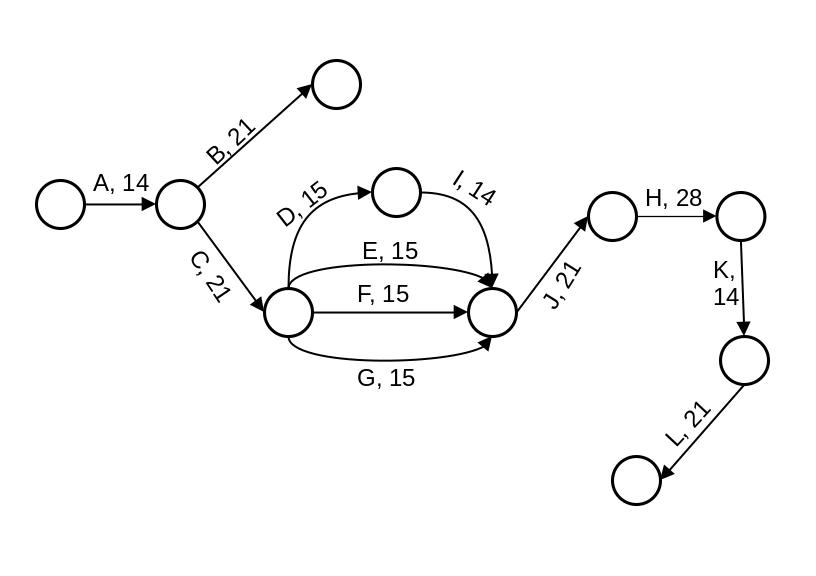
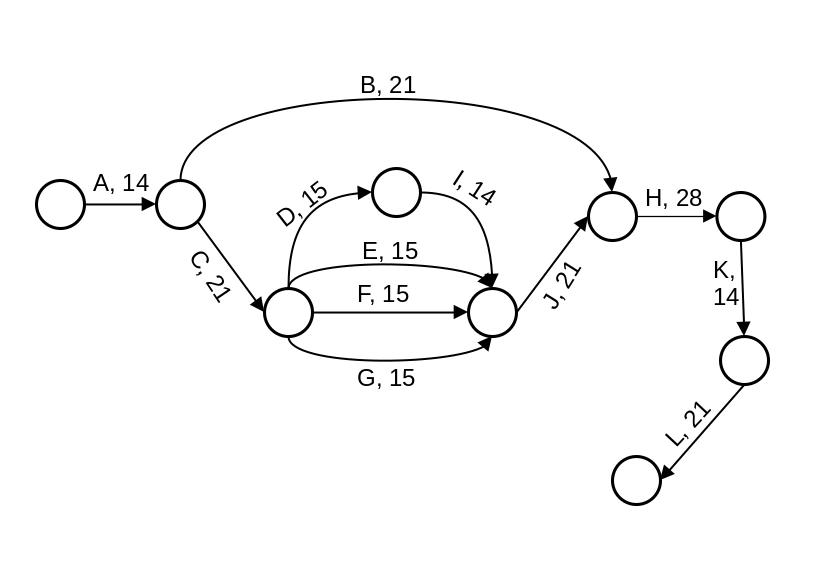
CPM and PERT done

diff --git a/Chapter5/chapter5.tex b/Chapter5/chapter5.tex
@@ -45,7 +45,7 @@ Among different scheduling techniques, \textbf{Network Diagrams} uses to graphic
 As the proposed new system for the AKASH DTH is decomposed in a well structured WBS with each tasks number, description, duration and dependencies. This document works as the map for the project workflows and goals and further used in the CPM, PERT and Gantt Chart techniques. \newline
 Time duration of each task is estimated using the top-down approach. The historic data gathered from their previous system's management was a key resource for the estimation and also expert judgment was asked from the previous team before planning the WBS. The dependencies were listed with additional care as the breakdown of the complex project scheduling highly affects from the internal dependencies among the component tasks. WBS was reviewed and the estimations were adjusted by Akash DTH team members.
 
-\begin{table}[h!]
+\begin{table}[H]
 \begin{center}
 	\begin{tabular}{| p{1cm}|p{7cm}|p{2cm}|p{3cm} |}
 		\hline
@@ -65,7 +65,7 @@ Time duration of each task is estimated using the top-down approach. The histori
 		\hline
 		G & Coding new custom package creation and alteration scheme & 15 days & C \\
 		\hline
-		H & Integrating UI with back-end API endpoints & 28 days & J \\
+		H & Integrating UI with back-end API endpoints & 28 days & B,  J \\
 		\hline
 		I & Migrating new database models to production database system & 14 days & D \\
 		\hline
@@ -104,4 +104,144 @@ On activities on node or AON network, nodes are either presented with a circle o
 	\label{fig:aon}
 \end{figure} 
 
+\section{Critical Path}
+Critical path in a project is sequence of the tasks that directly effects in the project completion deadlines. That means any delay in a task of the critical path will eventually create a delay in the final project completion. So critical path detects the minimum time needed to complete the project. Each project must have at least one critical path but more than one critical path is also common in project management. Accelerate the tasks on the critical path does not guarantee to shorten the project duration as the critical path can be shifted to a new path. Tasks that are not part of the critical path have a little impact on the project completion time. Some key concepts associated with critical path are listed below:
+ 
+ \paragraph{Early Start Time(ES)} 
+ This is earliest possible time a start can be started. A task early start time will always after the preceding task's early finish time. When a task have multiple preceding tasks, the maximum of their early finish time is used as the task's early start time.
+ \paragraph{Early Finish Time(ET)}
+ This is earliest possible time a task can be finished. Early finish time is simply the early start time plus the estimated duration of the task.
+ \paragraph{Late Start Time(LT)}
+ This is last minute a task can be started without affecting the project schedule. Late start time is simply the late finish time minus the duration of the task.
+ \paragraph{Late Finish Time(LF)}
+ This is the last minute a task can be completed within the project schedule. A task's late finish is the late start time of succeeding task's late start time, if the task has multiple successor then minimum of their late start is used as the late finish of the current task.  
+ \paragraph{Slack}
+ This defines how long a task can be delayed without affecting the project schedule and finish deadline. All tasks in the critical path will have a zero slack and other tasks that are not in the critical path will have a positive slack.
+ 
+ All these information are vital in critical path determination and project scheduling. So in the network diagram we used a rectangular node representation including the tasks number, duration, early start, early finish, late start, late finish and slack of the task as the following structure.
+ 
+ \begin{center}
+\begin{tabular}{|c|c|c|}
+	\hline
+	ES & Duration & EF \\
+	\hline
+	\multicolumn{3}{|c|}{Project ID} \\
+	\hline
+	LS & Slack & LF \\
+	\hline
+\end{tabular}
+\end{center}
+
+\subsection{Critical Path Method(CPM)}
+Critical path method is the algorithm to detect the critical path in the project schedule. It uses the slack of the tasks to detect the critical path. CPM is a two phase algorithm, a forward pass and followed by a backward pass.
+
+\subsubsection{Forward Pass} 
+In the forward pass, we calculate the early start(ES) and early finish(EF) of each task. In forward pass, we started the calculation from the left most task or the starting task(the task has no dependency) and proceed to the right until the final task reached. The first step in the forward pass is to create the network diagram using the WBS listed in table \ref{chart:WBS}. ES of an activity is equal to the EF of it's predecessor or the maximum of the EF(s) if it has multiple predecessors. ES of the first or leftmost task is always zero. The formula used to calculate EF is, $EF = ES + duration.$
+
+\subsubsection{Backward Pass}
+In backward pass, we calculate the late start(LS) and late finish(LF)  of each task. We started from the last or final task of the schedule and moved to preceding task, in a backward direction. The LF is determined first, then LS is calculated from LF and duration. The LF of a task is equal to the LS of the succeeding task or the minimum of the LS if multiple succeeding  tasks are there in the project schedule. The LF of the final task is equal to the EF of that task previously determined in the forward pass phase. The formula used to calculate LS is, $LS = LF - duration.$
+
+\subsubsection{Slack and Critical Path Identification}
+After the backward pass, all the information ES, EF, LS, LF of each task has been determined. The next step is the slack calculation. Slack identifies the tasks belong to the critical path. The formula used tor slack calculation is,$ slack =  LS - ES = LF - EF $. When slack is calculated, critical path is identified with tasks slack equals to zero. 
+
+Network diagram for WBS of our proposed system modifications listed in Table \ref{chart:WBS} including each tasks ES, EF, LS, LF and slack. From the following network diagram, we can identify the critical path in this project schedule as: \newline
+\[ A \to C \to D \to I \to J \to H \to K \to L \]
+
+The critical path in the network diagram is shown in highlighted  color on the below diagram.
+
+\subsubsection{Summury Of CPM}  
+
+
+\subsection{PERT}
+Program evaluation and review technique or PERT is a network diagram to represent the project's timeline. PERT method uses three estimations to calculate the expected time of each task. PERT is more effective when the duration of activities are uncertain. A brief description of each of three estimations used in PERT is given below:
+\begin{itemize}
+	\item \textbf{Optimistic Time, $a$} The minimum amount of time at least required to complete a task. This represent the best case scenario time.
+	\item \textbf{Pessimistic Time, $b$} The maximum of time time a task can be taken to complete. The represent the worst case scenario time.
+	\item \textbf{Most Likely Time, $m$} The best estimate of how long a task can take to complete assuming there is no delay or scarcity of resources.
+\end{itemize} 
+
+After finalize these three estimations, the expected time $te_{i}$ is calculated using the following formula of weighted average: \newline
+\begin{equation}
+te_{i} = \frac{a_i + 4m_i + b_i}{6} 
+\end{equation}
+
+Then the standard deviation $SD_{i}$ of each task is calculated. Standard deviation or SD signifies the variance of expected time of the tasks, smaller standard deviation means the value to be more close to the mean and the estimation is more confident. The formula used to calculate standard deviation is \newline
+
+\begin{equation}
+SD_{i} = \frac{b_{i} - a_{i}}{6} 
+\end{equation}
+
+In PERT method, expected time and standard deviation for each task is calculated individually and then the critical path is identified and finally the standard deviation for the whole project is calculated using every task present in the critical path. The formula used to calculate the standard deviation of the critical path is \newline
+
+\begin{equation}
+SD_{cp} = \sqrt{s_{1}^2 + s_{2}^2 + s_{3}^2 + \dots + s_n^2} 
+\end{equation}
+
+\subsubsection{PERT Activity List}
+PERT activity list is tabular method that shows the activities their three estimations, expected time and standard deviation in a table format. We used the activities or tasks previously decomposed in WBS(Table \ref{chart:WBS}) and make the optimistic, pessimistic and most likely estimations of each task and then calculated their expected time and standard deviation. Estimations were make using top-down method and using historic data and expert evaluation. The PERT list is presented in the table \ref{chart:PERT}. 
+
+\begin{table}[H]
+	\begin{center}
+		\begin{tabular}{| p{1cm} | p{2cm}| p{2cm} | p{2cm} | p{2cm} |p{2cm} | p{3cm} |}
+			\hline
+			Task ID  & Optimistic Time, $a_i$ &   Most Likely Time, $m_i$ & Pessimistic Time, $b_i$ & Expected Time, $te_i$ & Standard Deviation, $SD_i$ & Dependencies \\
+			\hline
+			A  & 12 & 14 & 16 & 14 & 0.67 & None \\
+			\hline
+			B  & 19 & 21 & 23 & 21  & 0.67 & A \\
+			\hline
+			C  & 18 & 21 & 24 & 21 & 1.0 & A \\
+			\hline
+			D  & 12 & 15  & 17 & 15 & 0.83 & C \\
+			\hline
+			E & 12 & 15 & 18 & 15 & 1.0 & C \\
+			\hline
+			F  & 13 & 15 & 18 & 15 & 0.83 & C \\
+			\hline
+			G  & 14 & 15 & 20 & 16 & 1.0  & C \\
+			\hline
+			H &  24 & 28 & 31 & 28 & 1.17 & B,  J \\
+			\hline
+			I  & 13 & 14 & 15 & 14 & 0.33 &  D \\
+			\hline
+			J  & 18 & 21 & 27 & 22 & 1.5  & I, E, F, G \\
+			\hline
+			K  & 12  & 14 & 15 & 14 & 0.5  & H \\
+			\hline
+			L  & 18 & 21 & 23 & 21 & 0.83 & K \\
+			\hline    
+		\end{tabular}
+	\end{center}
+	\caption{PERT activity list for proposed system of Akash DTH }
+	\label{chart:PERT}
+\end{table}
+
+From the PERT activities list, tasks have standard deviation within the range 0 to +1.5 which signifies that the expected time is well estimated. Majority of the tasks standard deviation are in range 0 to +1.0, only one task has standard deviation over 1.0, which evens provide proof of the lower variance of our estimations. 
+
+\subsubsection{PERT Chart}
+PERT chart network diagram with AOA or Activities On Arrow representation. In PERT chart the nodes represent the project milestones and arrow represents the activity associated with their expected duration. PERT uses the critical path we previously identified with CPM method $ A \to C \to D \to I \to J \to H \to K \to L $ in the network diagram. PERT chart for ours proposed system for AKASH DTH with the critical path highlighted is shown in figure \ref{fig:pert}.
+
+\begin{figure}[H]
+	\centering
+	\includegraphics[width=0.8\textwidth]{PERT}
+	\caption{PERT Chart for Akash DTH's project schedule}
+	\label{fig:pert}
+\end{figure} 
+ 
+\subsubsection{Project Standard Deviation}
+Standard deviation of the overall project basically signifies the variance of the whole project schedule estimations. To calculate the standard deviation of our proposed system for Akash DTH, we used the critical path identified previously in CPM method. Critical path in our project schedule is: 
+\[ A \to C \to D \to I \to J \to H \to K \to L \]
+So standard deviation of our project schedule,
+\begin{equation*} 
+	\begin{split}
+		SD_{cp} &= \sqrt{SD_A^2 + SD_C^2 + SD_D^2 + SD_I^2 + SD_J^2  + SD_H^2 + SD_K^2 + SD_L^2 } \\
+		&= \sqrt{0.67^2 + 1.0^2 + 0.83^2 + 0.33^2 + 1.5^2 + 1.17^2 + 0.5^2 + 0.83^2 } \\
+		& = \sqrt{7.4934} \\
+		& = 2.7374
+	\end{split}
+\end{equation*} 
+So the overall variance in our project schedule increases because of some high deviation was introduced in some tasks in the critical path. So the estimations of the tasks included in the critical path affects the overall project estimation.
+
+\subsubsection{Summury of PERT}
+  
 \end{spacing}
